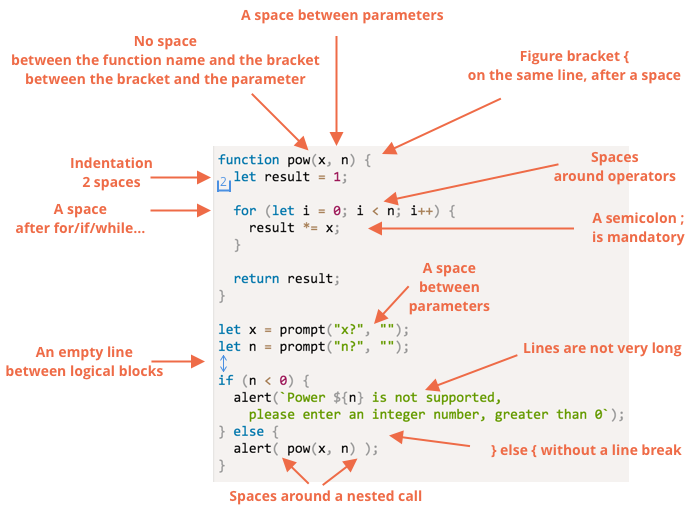
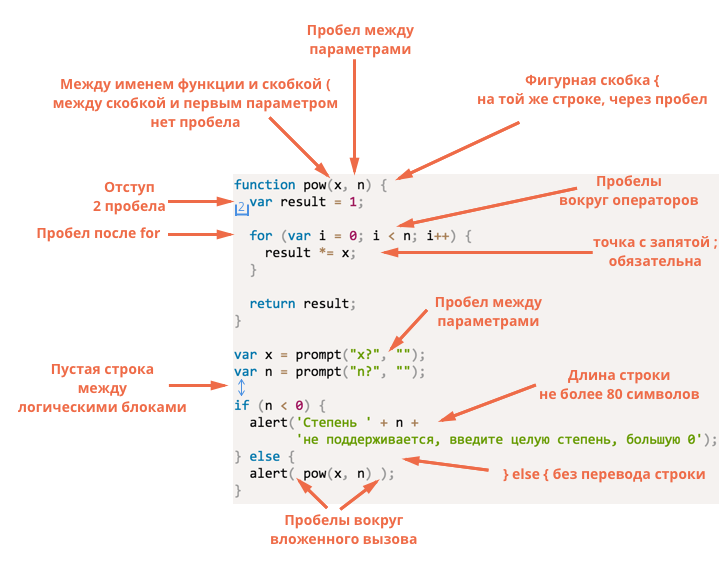
draft

diff --git a/1-js/03-code-quality/02-coding-style/article.md b/1-js/03-code-quality/02-coding-style/article.md
@@ -1,12 +1,12 @@
-# Coding Style
+# Советы по стилю кода
 
-Our code must be as clean and easy to read as possible.
+Наш код должен быть максимально читаемым и понятным.
 
-That is actually the art of programming -- to take a complex task and code it in a way that is both correct and human-readable.
+That is actually the art of programming -- to take a complex task and code it in a way that is both correct and human-readable.  /Для этого нужен хороший стиль написания кода. В этой главе мы рассмотрим компоненты такого стиля.
 
-## Syntax
+## Синтаксис
 
-Here is a cheatsheet with some suggested rules (see below for more details):
+Шпаргалка с правилами синтаксиса (их варианты детально разобраны далее):
 
 ![](code-style.png)
 <!--
@@ -34,13 +34,13 @@ if (n < 0) {
 
 -->
 
-Now let's discuss the rules and reasons for them in detail.
+Не всё здесь однозначно, так что разберём эти правила подробнее.
 
 ```warn header="Irony Detected"
-Nothing is set in stone here. These are style preferences, not religious dogmas.
+Здесь нет ничего основанного на камне. Это стилевые предпочтения, а не религиозные догмы.
 ```
 
-### Curly Braces
+### Фигурные скобки
 
 In most JavaScript projects curly braces are written in "Egyptian" style with the opening brace on the same line as the corresponding keyword -- not on a new line. There should also be a space before the opening bracket, like this:
 
@@ -76,13 +76,13 @@ In summary:
 - For very short code, one line is acceptable. For example: `if (cond) return null`.
 - But a separate line for each statement in brackets is usually easier to read.
 
-### Line Length
+### Длина строки
 
 No one likes to read a long horizontal line of code. It's best practice to split them up and limit the length of your lines.
 
 The maximum line length should be agreed upon at the team-level. It's usually 80 or 120 characters.
 
-### Indents
+### Отступы
 
 There are two types of indents:
 
@@ -123,7 +123,7 @@ There are two types of indents:
 
     Insert an extra newline where it helps to make the code more readable. There should not be more than nine lines of code without a vertical indentation.
 
-### Semicolons
+### Точка с запятой
 
 A semicolon should be present after each statement, even if it could possibly be skipped.
 
@@ -131,7 +131,7 @@ There are languages where a semicolon is truly optional and it is rarely used. I
 
 As you become more mature as a programmer, you may choose a no-semicolon style like [StandardJS](https://standardjs.com/). Until then, it's best to use semicolons to avoid possible pitfalls.
 
-### Nesting Levels
+### Уровни вложенности
 
 Try to avoid nesting code too many levels deep.
 
@@ -251,7 +251,7 @@ Most of time, the second variant is preferred.
 
 That's because when reading code, we first want to know *what it does*. If the code goes first, then it provides that information. Then, maybe we won't need to read the functions at all, especially if their names are descriptive of what they actually do.
 
-## Style Guides
+## Руководства по стилю
 
 A style guide contains general rules about "how to write" code, e.g. which quotes to use, how many spaces to indent, where to put line breaks, etc. A lot of minor things.
 
@@ -269,7 +269,7 @@ Some popular choices:
 
 If you're a novice developer, start with the cheatsheet at the beginning of this chapter. Once you've mastered that you can browse other style guides to pick up common principles and decide which one you like best.
 
-## Automated Linters
+## Автоматизированные средства проверки (линтеры)
 
 Linters are tools that can automatically check the style of your code and make suggestions for refactoring.
 
@@ -315,7 +315,7 @@ It is also possible to download style rule sets from the web and extend them ins
 
 Also certain IDEs have built-in linting, which is convenient but not as customizable as ESLint.
 
-## Summary
+## Итого
 
 All syntax rules described in this chapter (and in the style guides referenced) aim to increase the readability of your code, but all of them are debatable.
 

diff --git a/1-js/03-code-quality/02-coding-style/1-style-errors/solution.md b/1-js/03-code-quality/02-coding-style/1-style-errors/solution.md
@@ -1,12 +1,12 @@
 
-You could note the following:
+Вы могли заметить следующие недостатки, сверху-вниз:
 
 ```js no-beautify
-function pow(x,n)  // <- no space between arguments
-{  // <- figure bracket on a separate line
-  let result=1;   // <- no spaces before or after =
-  for(let i=0;i<n;i++) {result*=x;}   // <- no spaces
-  // the contents of { ... } should be on a new line
+function pow(x,n)  // <- отсутствует пробел между аргументами
+{  // <- фигурная скобка на отдельной строке
+  let result=1;   // <- нет пробелов вокруг знака =
+  for(let i=0;i<n;i++) {result*=x;}   // <- нет пробелов
+  // содержимое скобок { ... } лучше вынести на отдельную строку
   return result;
 }
 
@@ -23,7 +23,7 @@ else // <- could write it on a single line like "} else {"
 }
 ```
 
-The fixed variant:
+Исправленный вариант:
 
 ```js
 function pow(x, n) {
@@ -40,8 +40,8 @@ let x = prompt("x?", "");
 let n = prompt("n?", "");
 
 if (n < 0) {
-  alert(`Power ${n} is not supported,
-    please enter an integer number greater than zero`);
+  alert(`Степень ${n} не поддерживается,
+    пожалуйста введите целую степень, большую 0`);
 } else {
   alert( pow(x, n) );
 }

diff --git a/1-js/03-code-quality/02-coding-style/1-style-errors/task.md b/1-js/03-code-quality/02-coding-style/1-style-errors/task.md
@@ -2,9 +2,9 @@ importance: 4
 
 ---
 
-# Bad style
+# Стилевые ошибки
 
-What's wrong with the code style below?
+Какие недостатки вы находите в стиле этого примера? 
 
 ```js no-beautify
 function pow(x,n)
@@ -17,12 +17,10 @@ function pow(x,n)
 let x=prompt("x?",''), n=prompt("n?",'')
 if (n<=0)
 {
-  alert(`Power ${n} is not supported, please enter an integer number greater than zero`);
+  alert(`Степень ${n} не поддерживается, введите целую степень, большую 0`);
 }
 else
 {
   alert(pow(x,n))
 }
 ```
-
-Fix it.
